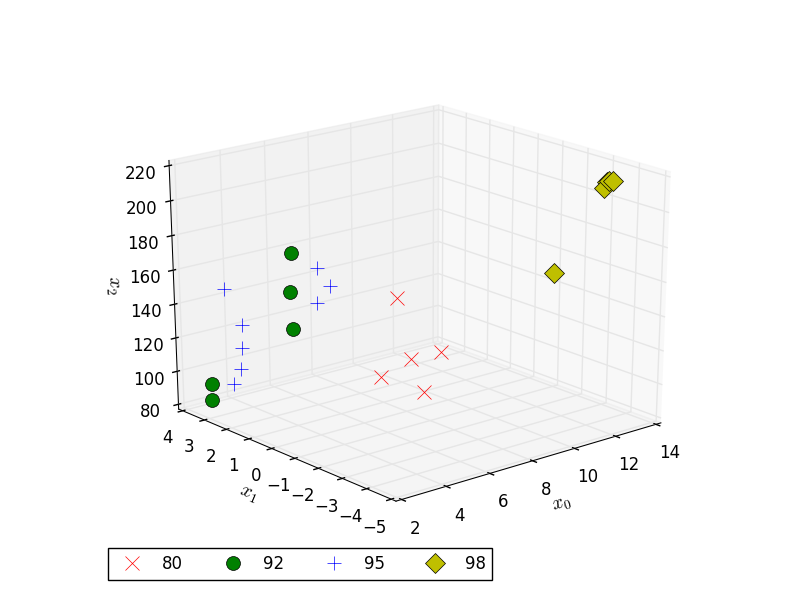
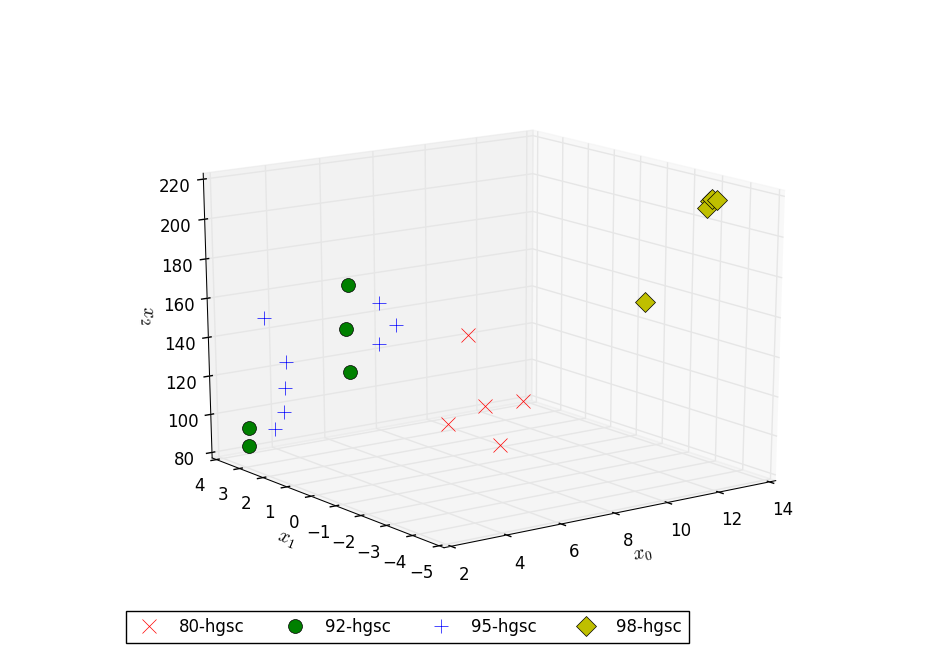
HHC compression add

diff --git a/spectra_reduction/compressors.py b/spectra_reduction/compressors.py
@@ -34,20 +34,39 @@ def hgsc(data,thr=0.7):
     return X
 
 
-def hhc(data,K=10):
+def hhc(data,K=30):
     """ Hilbert and Hash compression.
 
+    Compresses the original data and return their imag
+    in three-dimensional space. 
+
+    Parameters
+    ----------
+    data : numpy.ndarray
+        Spectra for reduce. The spectra are arranded in rows. 
+        Rows index is the spectra number. Spectral values should be positive.
+    K: int
+       Edges for histogram.
+       
     """
+
     x = data + np.imag(hilbert(data))
-    mn,mx = np.min(x),np.max(x)
+    mn,mx = np.min(x,axis=1),np.max(x,axis=1)
     sp = (mx-mn)/K
-    hist,edges = np.histogram(x,bins=K,range=(mn-sp,mx+sp))
-    centers = (edges[1:]+edges[-1:])/2.0
-    nm = np.sum(hist)
-    nu1 = np.sum(centers*hist/nm)  
-    nu2 = np.sum(centers**2*hist/nm)  
-    nu3 = np.sum(centers**3*hist/nm) 
-    return np.array([nu1,nu2,nu3])
+    hists_list = []
+    edges_list = []
+    for i in range(sp.shape[0]):
+        h,e = np.histogram(x[i],bins=K,range=(mn[i]-sp[i],mx[i]+sp[i]))
+        hists_list.append(h)
+        edges_list.append(e)
+    hist = np.vstack(hists_list)
+    edges = np.vstack(edges_list)
+    centers = (edges[:,1:]+edges[:,-1:])/2.0
+    nm = np.sum(hist,axis=1).reshape(-1,1)
+    nu1 = np.sum(centers*hist/nm,axis=1)  
+    nu2 = np.sum(centers**2*hist/nm,axis=1)  
+    nu3 = np.sum(centers**3*hist/nm,axis=1) 
+    return np.array(np.c_[nu1,nu2,nu3])
 
 def mhm():
     """ Median and Hirst and Modulation  compression.

diff --git a/spectra_reduction/reduce.py b/spectra_reduction/reduce.py
@@ -38,22 +38,14 @@ def main():
         if thr<0 or thr>1: 
             thr = 0.7
         img3d = cs.hgsc(data=np.vstack(l))
-        output_file_name = ('_'.join(input_files_name) + '-3d')
+        output_file_name = ('_'.join(input_files_name) + '-hgsc3d')
         np.save(output_file_name,img3d)
 
     elif args.strategy == 'hhc':
-        dat = np.vstack(l)
-        if args.split:
-            for i in range(dat.shape[0]):
-                hist,edges = cs.hhc(dat[i])
-                output_file_name = ( '_'.join(input_files_name) + 
-                                     '_'+ str(i) + '-hist' )
-                np.savez(output_file_name,hist=hist,edges=edges)
-        else:
-            hist,edges = cs.hhc(np.vstack(l))
-            output_file_name = '_'.join(input_files_name) + '-hist'
-            np.savez(output_file_name,hist=hist,edges=edges)
-
+        img3d = cs.hhc(data=np.vstack(l))
+        print(img3d)
+        output_file_name = ('_'.join(input_files_name) + '-hhc3d')
+        np.save(output_file_name,img3d)
 
 
 if __name__ == '__main__':

diff --git a/spectra_reduction/view_spectra_images3d.py b/spectra_reduction/view_spectra_images3d.py
@@ -32,7 +32,7 @@ def main():
 
     for idx,npy in enumerate(args.from_npy_files):
         imgs = np.load(npy.name)
-        lab = npy.name.replace('-3d.npy','')
+        lab = npy.name.replace('3d.npy','')
         ax.plot(xs=imgs[:,0],ys=imgs[:,1],zs=imgs[:,2],linewidth=0, 
                 markersize=10,c=colors[idx%len(colors)],
                 marker=markers[idx%len(markers)],label=lab)

diff --git a/README.md b/README.md
@@ -39,3 +39,9 @@ The raw spectra of petrols are difficult to differ (see Figure 1).
 After compression by the algorithm HGSC we obtain a 3D image for petrols spectra (see Figure 2). The effect of clustering is well visible.
 
 ![HGSCImage](./doc/phgsc3d.png "Figure 2. HGSC Image.")
+
+The result of HHC compression is shown in Figure 3.
+
+![HHCImage](./doc/phhc3d.png "Figure 3. HHC Image.")
+
+
